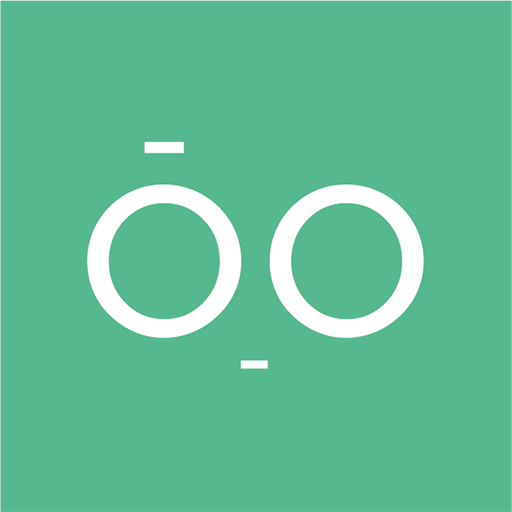
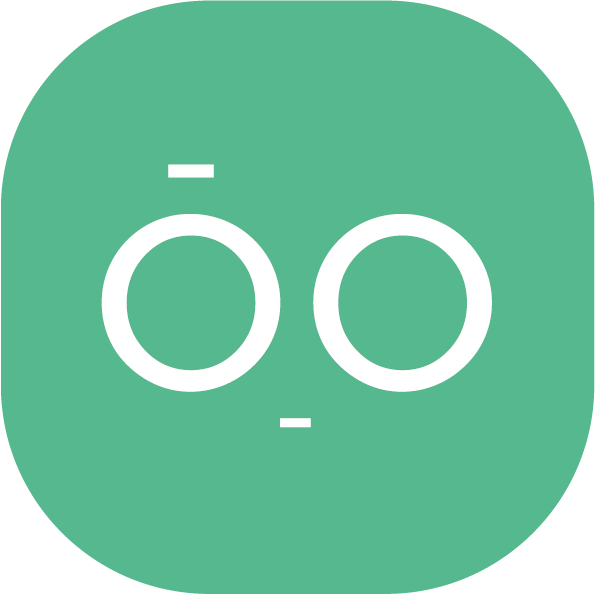
Changes

diff --git a/src/components/layout/AppSidebar.tsx b/src/components/layout/AppSidebar.tsx
@@ -346,7 +346,11 @@ const AppSidebar = () => {
     <Sidebar>
       <SidebarHeader className="p-4">
         <Link to="/" className="flex items-center">
-          <span className="text-sm font-bold tracking-tight text-foreground">Bivoo</span>
+          <img
+            src={isDark ? "/logo-dark.png" : "/logo-light.png"}
+            alt="Bivoo"
+            className="h-6 w-auto"
+          />
         </Link>
       </SidebarHeader>
 

diff --git a/index.html b/index.html
@@ -4,6 +4,7 @@
     <meta charset="UTF-8" />
     <meta name="google" content="notranslate" />
     <meta name="viewport" content="width=device-width, initial-scale=1.0, maximum-scale=1.0, user-scalable=no" />
+    <link rel="icon" href="/favicon.png" type="image/png" />
     <title>Bivoo</title>
     <meta name="description" content="Sistema de gestión de ventas e inventario" />
     <meta name="author" content="Bivoo" />
